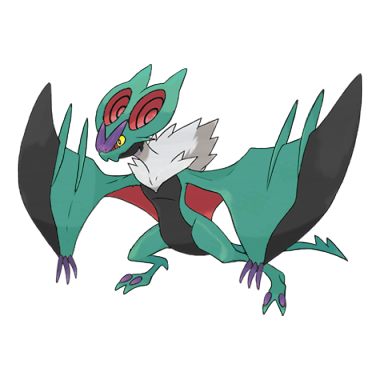
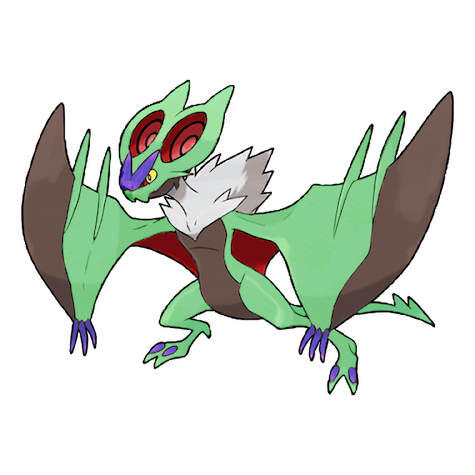
Update shinies

Changed region(s): [[0.0289, 0.1447, 0.9553, 0.8395]]

diff --git a/models.py b/models.py
@@ -557,11 +557,11 @@ class Species:
 
     @cached_property
     def image_url(self):
-        return f"https://assets.poketwo.net/images/{self.id}.png?v=25"
+        return f"https://assets.poketwo.net/images/{self.id}.png?v=26"
 
     @cached_property
     def shiny_image_url(self):
-        return f"https://assets.poketwo.net/shiny/{self.id}.png?v=25"
+        return f"https://assets.poketwo.net/shiny/{self.id}.png?v=26"
 
     @cached_property
     def correct_guesses(self):
@@ -576,7 +576,7 @@ class Species:
     def trade_evolutions(self):
         if self.evolution_to is None:
             return []
-        
+
         evos = []
 
         for e in self.evolution_to.items:
